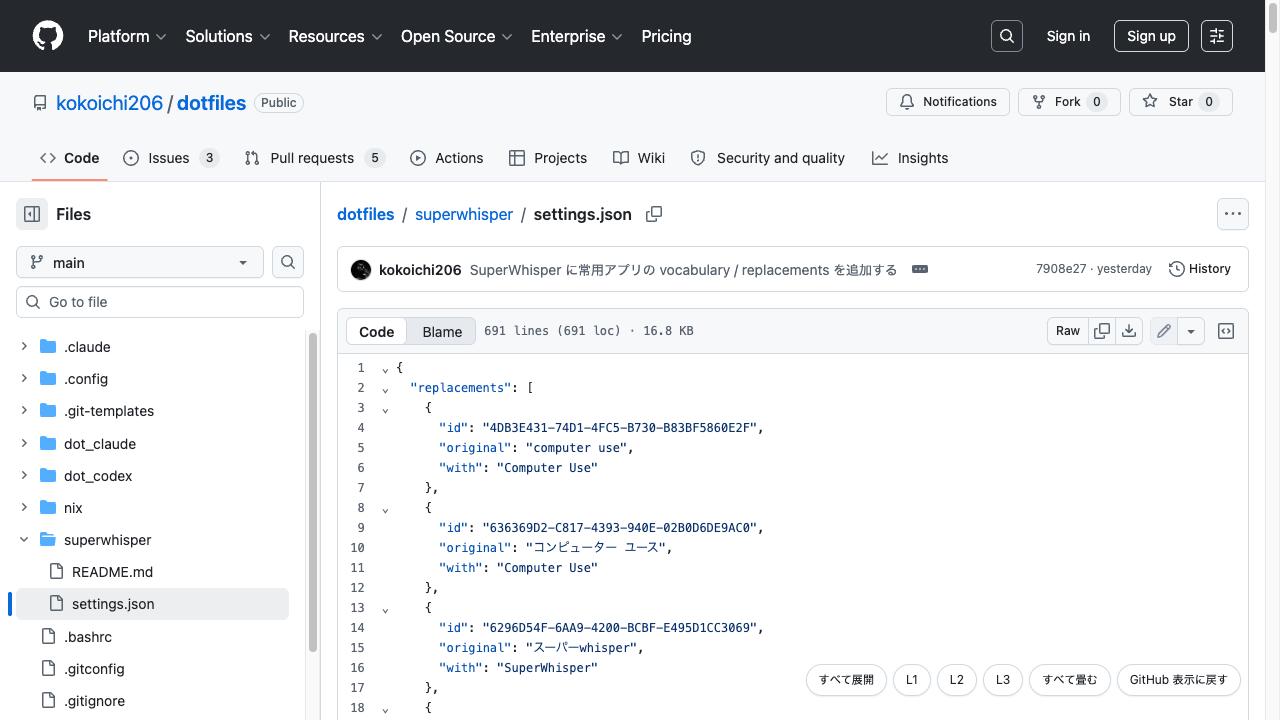
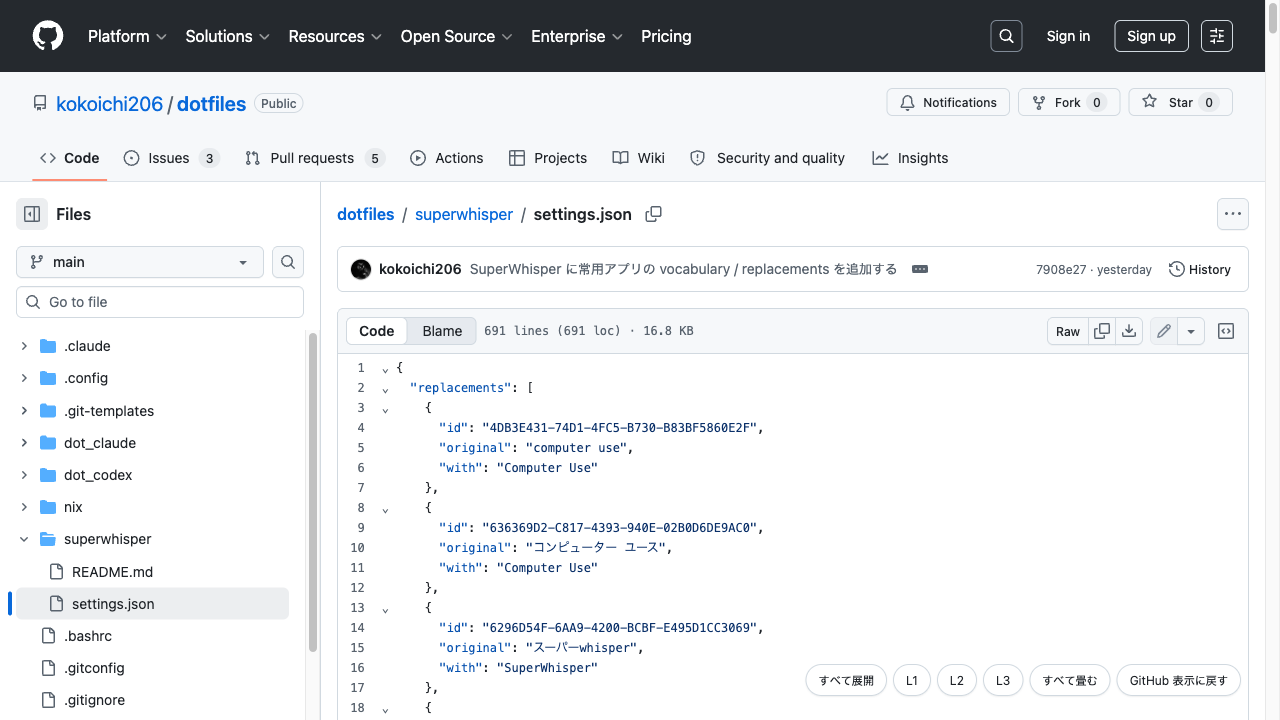
言語ハイライトを静的バンドルに切り替えて GitHub の CSP 違反を解消
content script からの動的 import はチャンクのパスがページ側 (github.com)
基準で解決され、GitHub の script-src CSP にブロックされて
言語によってハイライトが黙って欠けていた。
language-data の遅延ロードをやめ、主要 20 拡張子ぶんの言語を
静的 import に変更して動的 import を排除した。

E2E に回帰チェックを追加: Go ファイルのハイライト適用 / CSP 違反ゼロ（12 項目）。

diff --git a/src/viewer/languages.ts b/src/viewer/languages.ts
@@ -1,0 +1,63 @@
+import { cpp } from "@codemirror/lang-cpp";
+import { css } from "@codemirror/lang-css";
+import { go } from "@codemirror/lang-go";
+import { html } from "@codemirror/lang-html";
+import { java } from "@codemirror/lang-java";
+import { javascript } from "@codemirror/lang-javascript";
+import { json } from "@codemirror/lang-json";
+import { markdown } from "@codemirror/lang-markdown";
+import { php } from "@codemirror/lang-php";
+import { python } from "@codemirror/lang-python";
+import { rust } from "@codemirror/lang-rust";
+import { sql } from "@codemirror/lang-sql";
+import { xml } from "@codemirror/lang-xml";
+import { yaml } from "@codemirror/lang-yaml";
+import { StreamLanguage } from "@codemirror/language";
+import { shell } from "@codemirror/legacy-modes/mode/shell";
+import { toml } from "@codemirror/legacy-modes/mode/toml";
+import type { Extension } from "@codemirror/state";
+
+/* 言語チャンクを動的 import すると content script ではパスがページ側
+   (github.com) 基準で解決され、GitHub の CSP に弾かれる。
+   このため対応言語は静的にバンドルする（動的 import を持たないこと） */
+const languageByExtension: Record<string, () => Extension> = {
+  json: () => json(),
+  jsonc: () => json(),
+  yml: () => yaml(),
+  yaml: () => yaml(),
+  go: () => go(),
+  py: () => python(),
+  js: () => javascript(),
+  mjs: () => javascript(),
+  cjs: () => javascript(),
+  jsx: () => javascript({ jsx: true }),
+  ts: () => javascript({ typescript: true }),
+  mts: () => javascript({ typescript: true }),
+  tsx: () => javascript({ jsx: true, typescript: true }),
+  md: () => markdown(),
+  markdown: () => markdown(),
+  html: () => html(),
+  htm: () => html(),
+  css: () => css(),
+  sql: () => sql(),
+  xml: () => xml(),
+  svg: () => xml(),
+  java: () => java(),
+  rs: () => rust(),
+  c: () => cpp(),
+  h: () => cpp(),
+  cc: () => cpp(),
+  cpp: () => cpp(),
+  hpp: () => cpp(),
+  php: () => php(),
+  sh: () => StreamLanguage.define(shell),
+  bash: () => StreamLanguage.define(shell),
+  zsh: () => StreamLanguage.define(shell),
+  toml: () => StreamLanguage.define(toml),
+};
+
+export function languageForFilename(filename: string): Extension | null {
+  const extension = filename.toLowerCase().split(".").pop() ?? "";
+  const factory = languageByExtension[extension];
+  return factory !== undefined ? factory() : null;
+}

diff --git a/src/viewer/create-viewer.ts b/src/viewer/create-viewer.ts
@@ -5,13 +5,12 @@ import {
   foldEffect,
   unfoldAll,
   syntaxHighlighting,
-  LanguageDescription,
 } from "@codemirror/language";
-import { languages } from "@codemirror/language-data";
-import { Compartment, EditorState } from "@codemirror/state";
+import { EditorState } from "@codemirror/state";
 import { EditorView, lineNumbers } from "@codemirror/view";
 import { githubHighlightStyle } from "./github-highlight";
 import { computeFoldRanges, type FoldRange } from "./indent-fold";
+import { languageForFilename } from "./languages";
 
 export interface FoldableViewer {
   view: EditorView;
@@ -51,11 +50,11 @@ const baseTheme = EditorView.theme({
   },
 });
 
-export async function createViewer(
+export function createViewer(
   parent: HTMLElement,
   text: string,
   filename: string,
-): Promise<FoldableViewer> {
+): FoldableViewer {
   const lines = text.split("\n");
   const ranges = computeFoldRanges(lines);
   const rangeByStartLine = new Map<number, FoldRange>(
@@ -68,8 +67,6 @@ export async function createViewer(
     if (range === undefined || range.endLine > state.doc.lines) return null;
     return { from: line.to, to: state.doc.line(range.endLine).to };
   });
-
-  const languageCompartment = new Compartment();
 
   const view = new EditorView({
     parent,
@@ -85,7 +82,7 @@ export async function createViewer(
           openText: "⌄",
           closedText: "›",
         }),
-        languageCompartment.of([]),
+        languageForFilename(filename) ?? [],
         baseTheme,
         syntaxHighlighting(githubHighlightStyle),
         EditorState.readOnly.of(true),
@@ -94,18 +91,6 @@ export async function createViewer(
       ],
     }),
   });
-
-  const description = LanguageDescription.matchFilename(languages, filename);
-  if (description !== null) {
-    description
-      .load()
-      .then((support) => {
-        view.dispatch({ effects: languageCompartment.reconfigure(support) });
-      })
-      .catch(() => {
-        /* ハイライトは補助機能なので、言語ロード失敗時は plain text 表示のまま続行する */
-      });
-  }
 
   const foldRanges = (targets: FoldRange[]): void => {
     unfoldAll(view);

diff --git a/src/content/main.ts b/src/content/main.ts
@@ -17,7 +17,6 @@ let active: {
   panel: HTMLElement;
   hiddenSection: HTMLElement;
 } | null = null;
-let activating = false;
 
 function autoActivateEnabled(): boolean {
   return localStorage.getItem(AUTO_PREF_KEY) !== "off";
@@ -67,7 +66,7 @@ function renderControls(): void {
     controls.dataset.gfvState = "off";
     addButton("activate", "⌄ Foldable view", () => {
       localStorage.setItem(AUTO_PREF_KEY, "on");
-      void activate();
+      activate();
     });
     return;
   }
@@ -93,7 +92,7 @@ function ensureControls(): void {
     return;
   }
   if (existing !== null) {
-    if (active === null && autoActivateEnabled()) void activate();
+    if (active === null && autoActivateEnabled()) activate();
     return;
   }
 
@@ -102,15 +101,14 @@ function ensureControls(): void {
   controls.id = CONTROLS_ID;
   document.body.appendChild(controls);
   renderControls();
-  if (autoActivateEnabled()) void activate();
+  if (autoActivateEnabled()) activate();
 }
 
-async function activate(): Promise<void> {
-  if (activating || active !== null) return;
+function activate(): void {
+  if (active !== null) return;
   const textarea = findSourceTextarea();
   const section = findCodeSection();
   if (textarea === null || section === null) return;
-  activating = true;
 
   const panel = document.createElement("div");
   panel.id = PANEL_ID;
@@ -121,12 +119,8 @@ async function activate(): Promise<void> {
   section.insertAdjacentElement("beforebegin", panel);
   section.style.display = "none";
 
-  try {
-    const viewer = await createViewer(panel, textarea.value, currentFilename());
-    active = { viewer, panel, hiddenSection: section };
-  } finally {
-    activating = false;
-  }
+  const viewer = createViewer(panel, textarea.value, currentFilename());
+  active = { viewer, panel, hiddenSection: section };
   renderControls();
 }
 
